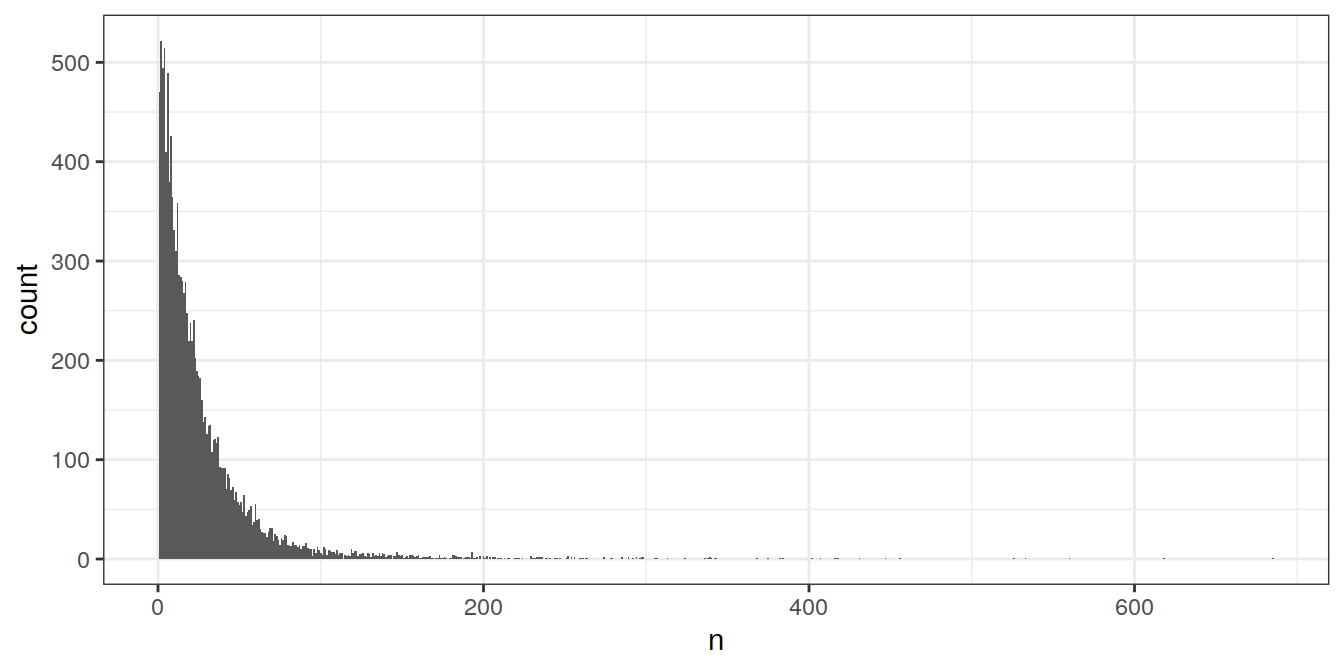
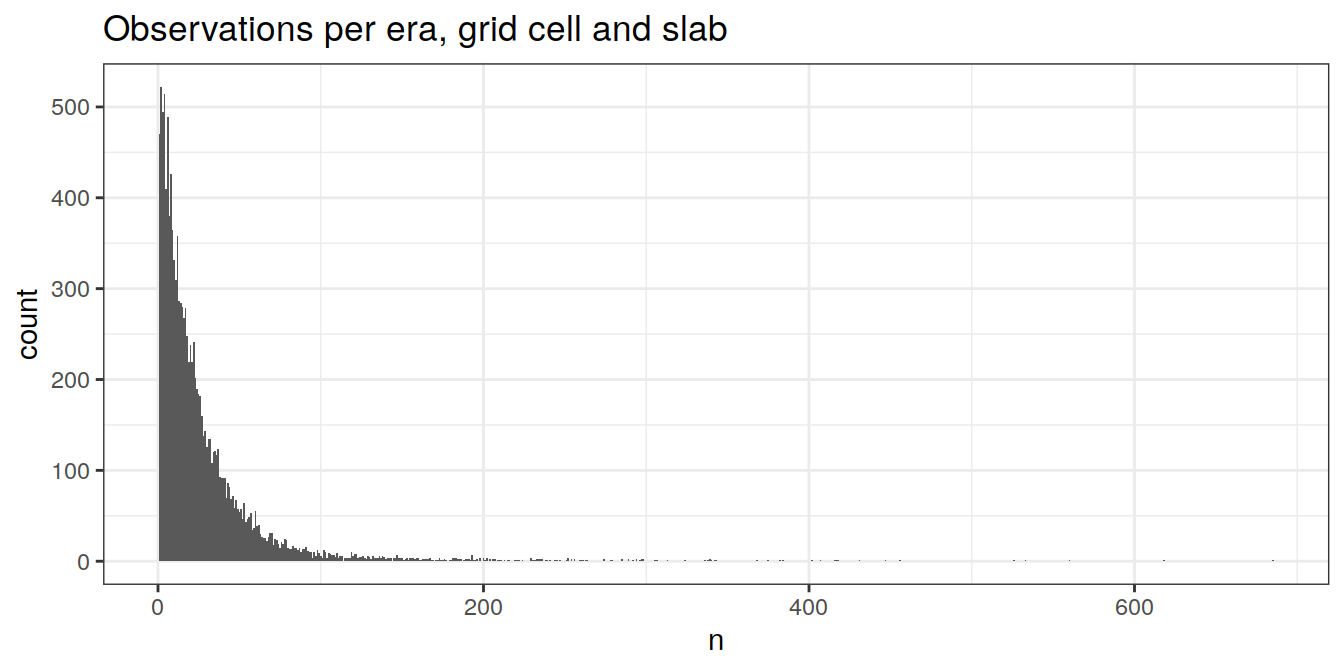
Build site.

diff --git a/docs/eMLR_data_preparation.html b/docs/eMLR_data_preparation.html
@@ -614,16 +614,16 @@ This reproducible <a href="http://rmarkdown.rstudio.com">R Markdown</a> analysis
 <div class="panel panel-default">
 <div class="panel-heading">
 <p class="panel-title">
-<a data-toggle="collapse" data-parent="#workflowr-checks" href="#strongRepositoryversionstrongahrefhttpsgithubcomjensdanielmuelleremlrobsvXXXtree7fa4dbd2b88f593606544979694da8265aba4c4ctargetblank7fa4dbda"> <span class="glyphicon glyphicon-ok text-success" aria-hidden="true"></span> <strong>Repository version:</strong> <a href="https://github.com/jens-daniel-mueller/emlr_obs_v_XXX/tree/7fa4dbd2b88f593606544979694da8265aba4c4c" target="_blank">7fa4dbd</a> </a>
+<a data-toggle="collapse" data-parent="#workflowr-checks" href="#strongRepositoryversionstrongahrefhttpsgithubcomjensdanielmuelleremlrobsvXXXtree3be2761d9c3a0a3c7ab1f5a6a917b921f3eac049targetblank3be2761a"> <span class="glyphicon glyphicon-ok text-success" aria-hidden="true"></span> <strong>Repository version:</strong> <a href="https://github.com/jens-daniel-mueller/emlr_obs_v_XXX/tree/3be2761d9c3a0a3c7ab1f5a6a917b921f3eac049" target="_blank">3be2761</a> </a>
 </p>
 </div>
[2 lines of base64/hex data omitted]
 <div class="panel-body">
 <p>
 Great! You are using Git for version control. Tracking code development and connecting the code version to the results is critical for reproducibility.
 </p>
 <p>
-The results in this page were generated with repository version <a href="https://github.com/jens-daniel-mueller/emlr_obs_v_XXX/tree/7fa4dbd2b88f593606544979694da8265aba4c4c" target="_blank">7fa4dbd</a>. See the <em>Past versions</em> tab to see a history of the changes made to the R Markdown and HTML files.
+The results in this page were generated with repository version <a href="https://github.com/jens-daniel-mueller/emlr_obs_v_XXX/tree/3be2761d9c3a0a3c7ab1f5a6a917b921f3eac049" target="_blank">3be2761</a>. See the <em>Past versions</em> tab to see a history of the changes made to the R Markdown and HTML files.
 </p>
 <p>
 Note that you need to be careful to ensure that all relevant files for the analysis have been committed to Git prior to generating the results (you can use <code>wflow_publish</code> or <code>wflow_git_commit</code>). workflowr only checks the R Markdown file, but you know if there are other scripts or data files that it depends on. Below is the status of the Git repository when the results were generated:
@@ -670,6 +670,40 @@ Message
 </tr>
 </thead>
 <tbody>
+<tr>
+<td>
+Rmd
+</td>
+<td>
+<a href="https://github.com/jens-daniel-mueller/emlr_obs_v_XXX/blob/3be2761d9c3a0a3c7ab1f5a6a917b921f3eac049/analysis/eMLR_data_preparation.Rmd" target="_blank">3be2761</a>
+</td>
+<td>
+jens-daniel-mueller
+</td>
+<td>
+2021-06-30
+</td>
+<td>
+added histogram
+</td>
+</tr>
+<tr>
+<td>
+html
+</td>
+<td>
+<a href="https://rawcdn.githack.com/jens-daniel-mueller/emlr_obs_v_XXX/749d84e0eb8c872194e7ead1e0a0b690faf1c4cf/docs/eMLR_data_preparation.html" target="_blank">749d84e</a>
+</td>
+<td>
+jens-daniel-mueller
+</td>
+<td>
+2021-06-30
+</td>
+<td>
+Build site.
+</td>
+</tr>
 <tr>
 <td>
 Rmd
@@ -8509,13 +8543,51 @@ GLODAP_grid &lt;- GLODAP %&gt;%
 GLODAP_grid %&gt;%
   # filter(n &lt; 100) %&gt;%
   ggplot(aes(n)) +
-  geom_histogram(binwidth = 1)</code></pre>
+  geom_histogram(binwidth = 1) +
+  labs(title = &quot;Observations per era, grid cell and slab&quot;)</code></pre>
 <p><img src="figure/eMLR_data_preparation.Rmd/coarse_grid-1.png" width="672" style="display: block; margin: auto;" /></p>
+<p>
+<button type="button" class="btn btn-default btn-xs btn-workflowr btn-workflowr-fig" data-toggle="collapse" data-target="#fig-coarse_grid-1">
+Past versions of coarse_grid-1.png
+</button>
+</p>
+<div id="fig-coarse_grid-1" class="collapse">
+<div class="table-responsive">
+<table class="table table-condensed table-hover">
+<thead>
+<tr>
+<th>
+Version
+</th>
+<th>
+Author
+</th>
+<th>
+Date
+</th>
+</tr>
+</thead>
+<tbody>
+<tr>
+<td>
+<a href="https://github.com/jens-daniel-mueller/emlr_obs_v_XXX/blob/749d84e0eb8c872194e7ead1e0a0b690faf1c4cf/docs/figure/eMLR_data_preparation.Rmd/coarse_grid-1.png" target="_blank">749d84e</a>
+</td>
+<td>
+jens-daniel-mueller
+</td>
+<td>
+2021-06-30
+</td>
+</tr>
+</tbody>
+</table>
+</div>
+</div>
 <pre class="r"><code>map +
   geom_raster(data = GLODAP_grid,
               aes(lon_grid, lat_grid, fill = n)) +
   facet_grid(gamma_slab ~ era) +
-  scale_fill_viridis_c() +
+  scale_fill_viridis_c(trans = &quot;log10&quot;) +
   labs(title = &quot;Before rarefication&quot;)</code></pre>
 <p><img src="figure/eMLR_data_preparation.Rmd/rarefication-1.png" width="672" style="display: block; margin: auto;" /></p>
 <p>
@@ -8607,7 +8679,7 @@ map +
   geom_raster(data = GLODAP_grid,
               aes(lon_grid, lat_grid, fill = n)) +
   facet_grid(gamma_slab ~ era) +
-  scale_fill_viridis_c() +
+  scale_fill_viridis_c(trans = &quot;log10&quot;) +
   labs(title = &quot;After rarefication&quot;)</code></pre>
 <p><img src="figure/eMLR_data_preparation.Rmd/rarefication-2.png" width="672" style="display: block; margin: auto;" /></p>
 <p>
